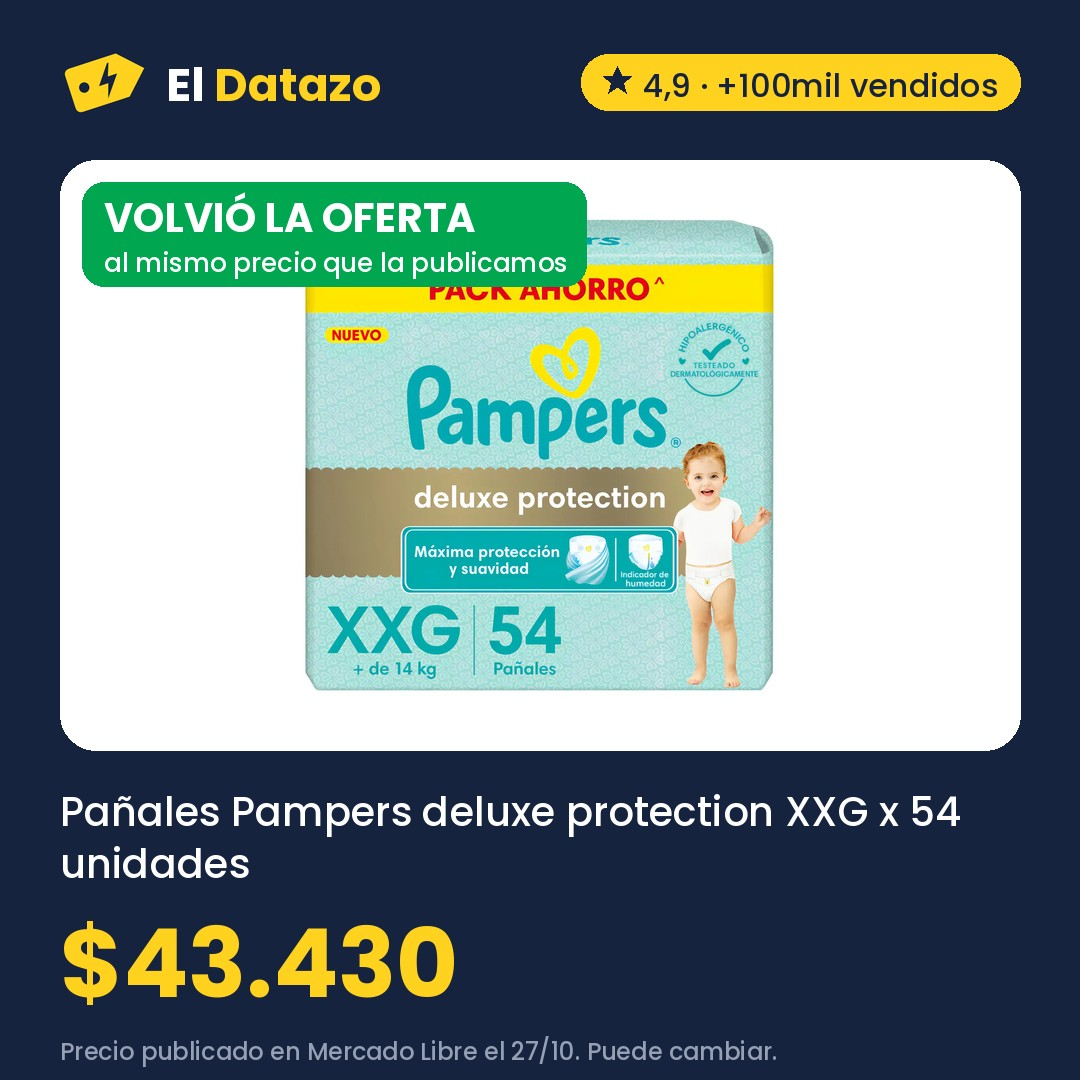
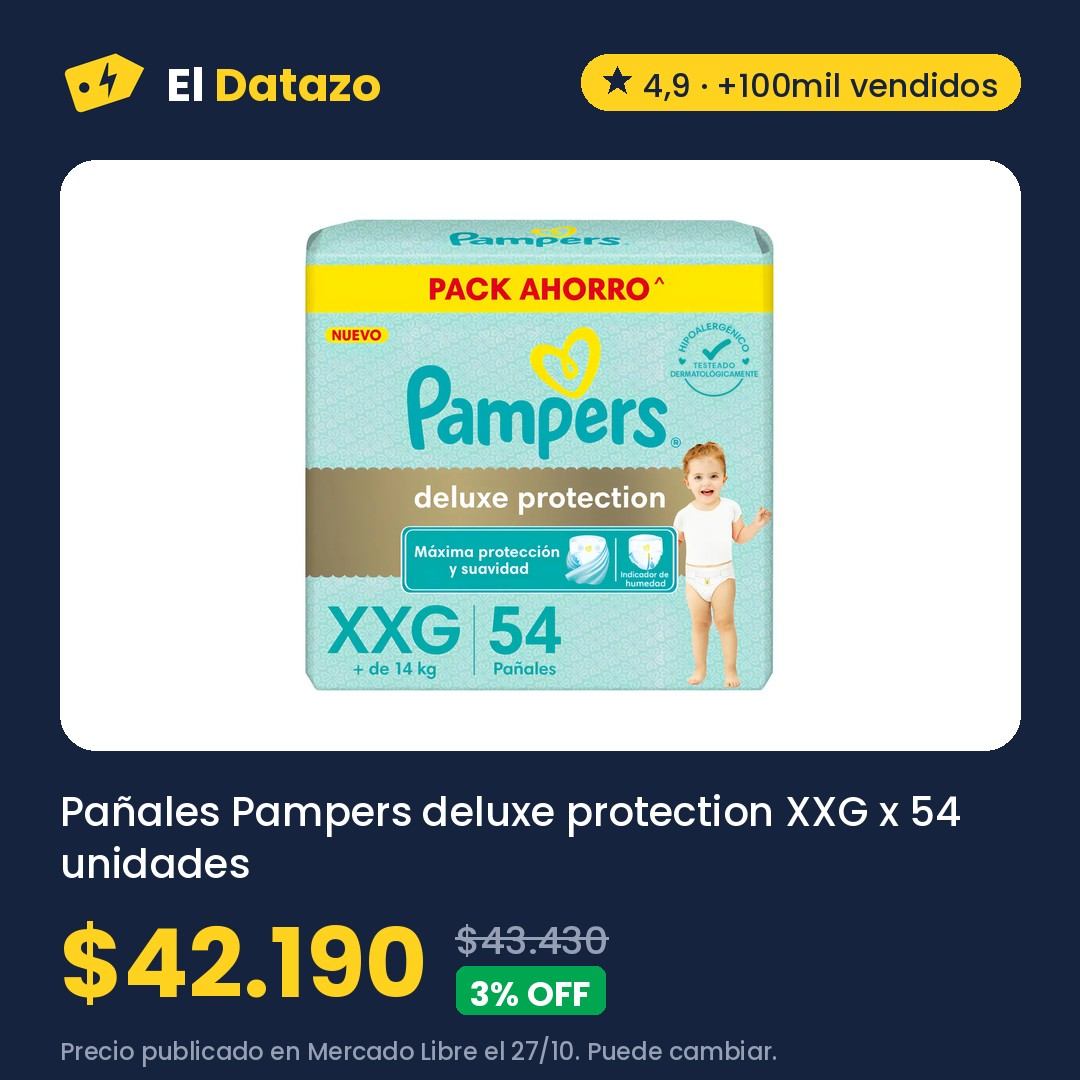
Ofertas 2026-10-27 14:11

Changed region(s): [[0.0611, 0.1528, 0.55, 0.275], [0.1833, 0.8556, 0.5806, 0.9472]]

diff --git a/index.html b/index.html
@@ -292,7 +292,7 @@ padding:3px 9px;border-radius:999px}
       <p class="hero-precio">$50.749</p>
       <p class="hero-antes"><s>$108.499</s> <span class="off">53% OFF</span></p>
       
-      <p class="nota">Precio del 24/10 en Mercado Libre, revisado hoy a las 11:06. Puede cambiar.</p>
+      <p class="nota">Precio del 24/10 en Mercado Libre, revisado hoy a las 11:11. Puede cambiar.</p>
       <a class="boton oscuro" href="https://meli.la/1HyqnAD" rel="sponsored noopener" target="_blank"
          data-oferta="MLA22130330">Ver oferta en Mercado Libre</a>
       <a class="compartir" href="https://wa.me/?text=Mir%C3%A1%20este%20datazo%3A%20Buclera%20de%20Pelo%20Gadnic%20B3000%20Rizador%203%20Tubos%2025%20mm%20150W%20180%20210%20C%20a%20%2450.749%20https%3A//eldatazo.com.ar/%23MLA22130330" target="_blank" rel="noopener" data-estilo="texto"><svg viewBox="0 0 24 24" width="16" height="16" aria-hidden="true"><path d="M4 20l1.3-4A8 8 0 1 1 8 18.7L4 20z" fill="none" stroke="currentColor" stroke-width="2" stroke-linejoin="round"/></svg> Compartir por WhatsApp</a>
@@ -307,7 +307,7 @@ padding:3px 9px;border-radius:999px}
         <li><a href="#MLA25363194"><img src="img/MLA25363194.jpg" alt="" loading="lazy">
           <span><b>Old Prince Premium gato adulto 7.5 kg</b><span class="ahora">$40.100</span> <span class="bajo">⬇ Volvió</span></span></a></li>
         <li><a href="#MLA28052339"><img src="img/MLA28052339.jpg" alt="" loading="lazy">
-          <span><b>Pañales Pampers deluxe protection XXG x 54 unidades</b><span class="ahora">$43.430</span> <span class="bajo">⬇ Volvió</span></span></a></li>
+          <span><b>Pañales Pampers deluxe protection XXG x 54 unidades</b><span class="ahora">$42.190</span> <span class="bajo">⬇ Volvió</span></span></a></li>
         <li><a href="https://meli.la/2bhn3SU" rel="sponsored noopener" target="_blank" data-oferta="MLA29031346"><img src="https://http2.mlstatic.com/D_Q_NP_930271-MLA99501053204_112025-AB.webp" alt="" loading="lazy" referrerpolicy="no-referrer">
           <span><b>Kit X 2 Handy Baofeng Radio Walkie Talkie Bf888s 16ch Uhf Bandas de frecuencia 16 Color Negro</b><span class="ahora">$31.448</span><s>$45.000</s>
           <span class="bajo">⬇ Bajó</span></span></a></li>
@@ -361,7 +361,7 @@ padding:3px 9px;border-radius:999px}
           <h3>Old Prince Premium gato adulto 7.5 kg</h3>
           <p class="precios "><span class="precio">$40.100</span></p>
           <p class="bajo">Había terminado y volvió al mismo precio</p>
-          <p class="nota">Precio de hoy a las 11:06 en Mercado Libre. Puede cambiar.</p>
+          <p class="nota">Precio de hoy a las 11:11 en Mercado Libre. Puede cambiar.</p>
           <div class="acciones">
             <a class="boton" href="https://meli.la/2zmmmFA" rel="sponsored noopener" target="_blank"
                data-oferta="MLA25363194">Ver oferta</a>
@@ -370,20 +370,20 @@ padding:3px 9px;border-radius:999px}
           </div>
         </div>
       </article>
-      <article class="tarjeta destacada" id="MLA28052339" data-rubro="MLA1384" data-off="0" data-pub="2026-10-27" data-quedan="7" data-precio="43430" data-bajo="1" data-texto="pañales pampers deluxe protection xxg x 54 unidades">
+      <article class="tarjeta destacada" id="MLA28052339" data-rubro="MLA1384" data-off="3" data-pub="2026-10-27" data-quedan="7" data-precio="42189" data-bajo="1" data-texto="pañales pampers deluxe protection xxg x 54 unidades">
         <div class="tarjeta-foto">
           <img src="img/MLA28052339.jpg" alt="Pañales Pampers deluxe protection XXG x 54 unidades" loading="lazy" width="1080" height="1080">
         </div>
         <div class="cuerpo">
           <div class="fila"><span class="sello baja">⬇ Volvió</span><span class="sello">Quedan 7 días</span><span class="rubro">Bebés</span></div>
           <h3>Pañales Pampers deluxe protection XXG x 54 unidades</h3>
-          <p class="precios "><span class="precio">$43.430</span></p>
+          <p class="precios "><span class="precio">$42.190</span><s class="antes">$43.430</s><span class="off">3% OFF</span></p>
           <p class="bajo">Había terminado y volvió al mismo precio</p>
-          <p class="nota">Precio de hoy a las 11:06 en Mercado Libre. Puede cambiar.</p>
+          <p class="nota">Precio de hoy a las 11:11 en Mercado Libre. Puede cambiar.</p>
           <div class="acciones">
             <a class="boton" href="https://meli.la/2kAwAe6" rel="sponsored noopener" target="_blank"
                data-oferta="MLA28052339">Ver oferta</a>
-            <a class="compartir" href="https://wa.me/?text=Mir%C3%A1%20este%20datazo%3A%20Pa%C3%B1ales%20Pampers%20deluxe%20protection%20XXG%20x%2054%20unidades%20a%20%2443.430%20https%3A//eldatazo.com.ar/%23MLA28052339" target="_blank" rel="noopener"
+            <a class="compartir" href="https://wa.me/?text=Mir%C3%A1%20este%20datazo%3A%20Pa%C3%B1ales%20Pampers%20deluxe%20protection%20XXG%20x%2054%20unidades%20a%20%2442.190%20https%3A//eldatazo.com.ar/%23MLA28052339" target="_blank" rel="noopener"
                aria-label="Compartir por WhatsApp" title="Compartir por WhatsApp"><svg viewBox="0 0 24 24" width="16" height="16" aria-hidden="true"><path d="M4 20l1.3-4A8 8 0 1 1 8 18.7L4 20z" fill="none" stroke="currentColor" stroke-width="2" stroke-linejoin="round"/></svg></a>
           </div>
         </div>
@@ -397,7 +397,7 @@ padding:3px 9px;border-radius:999px}
           <h3>Calculadora Cientifica Casio Fx 570la Cw Classwiz Negra</h3>
           <p class="precios "><span class="precio">$59.174</span></p>
           
-          <p class="nota">Precio del 26/10 en Mercado Libre, revisado hoy a las 11:06. Puede cambiar.</p>
+          <p class="nota">Precio del 26/10 en Mercado Libre, revisado hoy a las 11:11. Puede cambiar.</p>
           <div class="acciones">
             <a class="boton" href="https://meli.la/2iggYJ9" rel="sponsored noopener" target="_blank"
                data-oferta="MLA22724798">Ver oferta</a>
@@ -415,7 +415,7 @@ padding:3px 9px;border-radius:999px}
           <h3>Colchón Inflable Doble Klimber + Inflador + 2 Almohadas</h3>
           <p class="precios "><span class="precio">$45.777</span><s class="antes">$69.499</s><span class="off">34% OFF</span></p>
           
-          <p class="nota">Precio del 26/10 en Mercado Libre, revisado hoy a las 11:06. Puede cambiar.</p>
+          <p class="nota">Precio del 26/10 en Mercado Libre, revisado hoy a las 11:11. Puede cambiar.</p>
           <div class="acciones">
             <a class="boton" href="https://meli.la/19eMhmv" rel="sponsored noopener" target="_blank"
                data-oferta="MLA22764635">Ver oferta</a>
@@ -433,7 +433,7 @@ padding:3px 9px;border-radius:999px}
           <h3>Rotuladora Portátil Niimbot Etiquetadora Manual Impresora Color Blanco D110</h3>
           <p class="precios "><span class="precio">$41.040</span><s class="antes">$58.900</s><span class="off">30% OFF</span></p>
           
-          <p class="nota">Precio del 26/10 en Mercado Libre, revisado hoy a las 11:06. Puede cambiar.</p>
+          <p class="nota">Precio del 26/10 en Mercado Libre, revisado hoy a las 11:11. Puede cambiar.</p>
           <div class="acciones">
             <a class="boton" href="https://meli.la/1czSFp6" rel="sponsored noopener" target="_blank"
                data-oferta="MLA45260672">Ver oferta</a>
@@ -451,7 +451,7 @@ padding:3px 9px;border-radius:999px}
           <h3>Probioticos Perros Aditivo Natural Digestivo Instestinal Alergia Ruffitos</h3>
           <p class="precios "><span class="precio">$52.990</span><s class="antes">$69.000</s><span class="off">23% OFF</span></p>
           
-          <p class="nota">Precio del 26/10 en Mercado Libre, revisado hoy a las 11:06. Puede cambiar.</p>
+          <p class="nota">Precio del 26/10 en Mercado Libre, revisado hoy a las 11:11. Puede cambiar.</p>
           <div class="acciones">
             <a class="boton" href="https://meli.la/2MYNaoX" rel="sponsored noopener" target="_blank"
                data-oferta="MLA59797283">Ver oferta</a>
@@ -469,7 +469,7 @@ padding:3px 9px;border-radius:999px}
           <h3>Eucerin Sun Oil Control Protector solar facial Toque Seco FPS 50 x 50 ml</h3>
           <p class="precios "><span class="precio">$45.181</span><s class="antes">$75.301</s><span class="off">40% OFF</span></p>
           
-          <p class="nota">Precio del 22/10 en Mercado Libre, revisado hoy a las 11:06. Puede cambiar.</p>
+          <p class="nota">Precio del 22/10 en Mercado Libre, revisado hoy a las 11:11. Puede cambiar.</p>
           <div class="acciones">
             <a class="boton" href="https://meli.la/2Zpeewk" rel="sponsored noopener" target="_blank"
                data-oferta="MLA16048275">Ver oferta</a>
@@ -487,7 +487,7 @@ padding:3px 9px;border-radius:999px}
           <h3>Bomba Periferica Elevadora Agua Vasser 1/2 Hp 20mts caudal 30 l/m</h3>
           <p class="precios "><span class="precio">$42.419</span><s class="antes">$51.449</s><span class="off">18% OFF</span></p>
           
-          <p class="nota">Precio de hoy a las 11:06 en Mercado Libre. Puede cambiar.</p>
+          <p class="nota">Precio de hoy a las 11:11 en Mercado Libre. Puede cambiar.</p>
           <div class="acciones">
             <a class="boton" href="https://meli.la/2nztThe" rel="sponsored noopener" target="_blank"
                data-oferta="MLA19576694">Ver oferta</a>
@@ -505,7 +505,7 @@ padding:3px 9px;border-radius:999px}
           <h3>Bomba Pluvius Presurizadora 100 W Automática 2 Baños</h3>
           <p class="precios "><span class="precio">$62.006</span><s class="antes">$81.899</s><span class="off">24% OFF</span></p>
           <p class="bajo">Antes $66.659 el 24/10 · 7% menos</p>
-          <p class="nota">Precio de hoy a las 11:06 en Mercado Libre. Puede cambiar.</p>
+          <p class="nota">Precio de hoy a las 11:11 en Mercado Libre. Puede cambiar.</p>
           <div class="acciones">
             <a class="boton" href="https://meli.la/2a5DkY2" rel="sponsored noopener" target="_blank"
                data-oferta="MLA19974075">Ver oferta</a>
@@ -523,7 +523,7 @@ padding:3px 9px;border-radius:999px}
           <h3>Equipo Pistola Pintar Eléctrica Latex 450w TOTAL Acabado Profesional sin Esfuerzo</h3>
           <p class="precios "><span class="precio">$56.340</span><s class="antes">$105.990</s><span class="off">47% OFF</span></p>
           
-          <p class="nota">Precio del 24/10 en Mercado Libre, revisado hoy a las 11:06. Puede cambiar.</p>
+          <p class="nota">Precio del 24/10 en Mercado Libre, revisado hoy a las 11:11. Puede cambiar.</p>
           <div class="acciones">
             <a class="boton" href="https://meli.la/2TeggF7" rel="sponsored noopener" target="_blank"
                data-oferta="MLA22620660">Ver oferta</a>
@@ -541,7 +541,7 @@ padding:3px 9px;border-radius:999px}
           <h3>Silfab AL91 Almohadilla Eléctrica Espalda Large 41 X 28 Cm</h3>
           <p class="precios "><span class="precio">$50.465</span></p>
           
-          <p class="nota">Precio del 24/10 en Mercado Libre, revisado hoy a las 11:06. Puede cambiar.</p>
+          <p class="nota">Precio del 24/10 en Mercado Libre, revisado hoy a las 11:11. Puede cambiar.</p>
           <div class="acciones">
             <a class="boton" href="https://meli.la/2cQdCWW" rel="sponsored noopener" target="_blank"
                data-oferta="MLA23456165">Ver oferta</a>
@@ -559,7 +559,7 @@ padding:3px 9px;border-radius:999px}
           <h3>Pintura Latex Ingenia X 20 L Interior Exterior Cubritiva - Blanco</h3>
           <p class="precios "><span class="precio">$32.999</span><s class="antes">$69.999</s><span class="off">53% OFF</span></p>
           
-          <p class="nota">Precio del 24/10 en Mercado Libre, revisado hoy a las 11:06. Puede cambiar.</p>
+          <p class="nota">Precio del 24/10 en Mercado Libre, revisado hoy a las 11:11. Puede cambiar.</p>
           <div class="acciones">
             <a class="boton" href="https://meli.la/2Gbd1ds" rel="sponsored noopener" target="_blank"
                data-oferta="MLA23521180">Ver oferta</a>
@@ -577,7 +577,7 @@ padding:3px 9px;border-radius:999px}
           <h3>Masajeador Cervical Eléctrico Portatil Inalambrico Batería Recargable Usb Femmto Relajación Cuello Espalda Lumbar</h3>
           <p class="precios "><span class="precio">$70.699</span><s class="antes">$100.000</s><span class="off">29% OFF</span></p>
           
-          <p class="nota">Precio del 22/10 en Mercado Libre, revisado hoy a las 11:06. Puede cambiar.</p>
+          <p class="nota">Precio del 22/10 en Mercado Libre, revisado hoy a las 11:11. Puede cambiar.</p>
           <div class="acciones">
             <a class="boton" href="https://meli.la/2DfwhAa" rel="sponsored noopener" target="_blank"
                data-oferta="MLA24127896">Ver oferta</a>
@@ -595,7 +595,7 @@ padding:3px 9px;border-radius:999px}
           <h3>Taladro Atornillador Inalámbrico Branx Bateria 20v Litio Color Accesorios Maletin HyperBolt20</h3>
           <p class="precios "><span class="precio">$58.999</span><s class="antes">$120.000</s><span class="off">51% OFF</span></p>
           
-          <p class="nota">Precio del 24/10 en Mercado Libre, revisado hoy a las 11:06. Puede cambiar.</p>
+          <p class="nota">Precio del 24/10 en Mercado Libre, revisado hoy a las 11:11. Puede cambiar.</p>
           <div class="acciones">
             <a class="boton" href="https://meli.la/2xk9W87" rel="sponsored noopener" target="_blank"
                data-oferta="MLA24983473">Ver oferta</a>
@@ -613,7 +613,7 @@ padding:3px 9px;border-radius:999px}
           <h3>Equipo de Alta Frecuencia Gadnic LF60 Antienvejecimiento Antiacné Reafirmante Facial 4 Electrodos</h3>
           <p class="precios "><span class="precio">$49.999</span><s class="antes">$98.399</s><span class="off">49% OFF</span></p>
           
-          <p class="nota">Precio del 24/10 en Mercado Libre, revisado hoy a las 11:06. Puede cambiar.</p>
+          <p class="nota">Precio del 24/10 en Mercado Libre, revisado hoy a las 11:11. Puede cambiar.</p>
           <div class="acciones">
             <a class="boton" href="https://meli.la/1guS1ep" rel="sponsored noopener" target="_blank"
                data-oferta="MLA26522167">Ver oferta</a>
@@ -631,7 +631,7 @@ padding:3px 9px;border-radius:999px}
           <h3>Bomba Presurizadora Elevadora 2 Baños Presion Kommberg 120w KB-EP120</h3>
           <p class="precios "><span class="precio">$60.021</span><s class="antes">$79.890</s><span class="off">25% OFF</span></p>
           
-          <p class="nota">Precio del 24/10 en Mercado Libre, revisado hoy a las 11:06. Puede cambiar.</p>
+          <p class="nota">Precio del 24/10 en Mercado Libre, revisado hoy a las 11:11. Puede cambiar.</p>
           <div class="acciones">
             <a class="boton" href="https://meli.la/2eMw9XD" rel="sponsored noopener" target="_blank"
                data-oferta="MLA28254149">Ver oferta</a>
@@ -649,7 +649,7 @@ padding:3px 9px;border-radius:999px}
           <h3>Máquina De Cortar Pelo Para Perros Gadnic CP170 Silenciosa 2000 mAh 4 Peines Acero Inoxidable Autonomía 3,5Hr Carga Rápida</h3>
           <p class="precios "><span class="precio">$68.999</span><s class="antes">$118.749</s><span class="off">42% OFF</span></p>
           
-          <p class="nota">Precio del 24/10 en Mercado Libre, revisado hoy a las 11:06. Puede cambiar.</p>
+          <p class="nota">Precio del 24/10 en Mercado Libre, revisado hoy a las 11:11. Puede cambiar.</p>
           <div class="acciones">
             <a class="boton" href="https://meli.la/1eArodH" rel="sponsored noopener" target="_blank"
                data-oferta="MLA28329206">Ver oferta</a>
@@ -667,7 +667,7 @@ padding:3px 9px;border-radius:999px}
           <h3>Compresor De Aire Portátil Gadnic Inflador Neumáticos 50W Presión 150 PSI Caudal 17 L/min Pantalla Dual LCD Corte Automático Linterna LED Accesorios Para Auto Moto Bicicleta Pelotas</h3>
           <p class="precios "><span class="precio">$57.449</span><s class="antes">$105.599</s><span class="off">46% OFF</span></p>
           
-          <p class="nota">Precio del 24/10 en Mercado Libre, revisado hoy a las 11:06. Puede cambiar.</p>
+          <p class="nota">Precio del 24/10 en Mercado Libre, revisado hoy a las 11:11. Puede cambiar.</p>
           <div class="acciones">
             <a class="boton" href="https://meli.la/2ck1cFk" rel="sponsored noopener" target="_blank"
                data-oferta="MLA43472281">Ver oferta</a>
@@ -685,7 +685,7 @@ padding:3px 9px;border-radius:999px}
           <h3>Plastificadora Laminadora A4 Profesional Frio Calor 230 Mm</h3>
           <p class="precios "><span class="precio">$51.465</span><s class="antes">$79.999</s><span class="off">36% OFF</span></p>
           
-          <p class="nota">Precio del 24/10 en Mercado Libre, revisado hoy a las 11:06. Puede cambiar.</p>
+          <p class="nota">Precio del 24/10 en Mercado Libre, revisado hoy a las 11:11. Puede cambiar.</p>
           <div class="acciones">
             <a class="boton" href="https://meli.la/14bVQFh" rel="sponsored noopener" target="_blank"
                data-oferta="MLA43829530">Ver oferta</a>
@@ -703,7 +703,7 @@ padding:3px 9px;border-radius:999px}
           <h3>Cable Tipo Taller 2x2.5 Mm 50mts Cubierta Negro</h3>
           <p class="precios "><span class="precio">$48.839</span></p>
           
-          <p class="nota">Precio del 24/10 en Mercado Libre, revisado hoy a las 11:06. Puede cambiar.</p>
+          <p class="nota">Precio del 24/10 en Mercado Libre, revisado hoy a las 11:11. Puede cambiar.</p>
           <div class="acciones">
             <a class="boton" href="https://meli.la/1aC3rjr" rel="sponsored noopener" target="_blank"
                data-oferta="MLA50107405">Ver oferta</a>
@@ -721,7 +721,7 @@ padding:3px 9px;border-radius:999px}
           <h3>Bloques Magnéticos Para Armar 100 Piezas Construcción Tiles 100</h3>
           <p class="precios "><span class="precio">$63.832</span><s class="antes">$83.990</s><span class="off">24% OFF</span></p>
           
-          <p class="nota">Precio del 24/10 en Mercado Libre, revisado hoy a las 11:06. Puede cambiar.</p>
+          <p class="nota">Precio del 24/10 en Mercado Libre, revisado hoy a las 11:11. Puede cambiar.</p>
           <div class="acciones">
             <a class="boton" href="https://meli.la/2Hc8YtJ" rel="sponsored noopener" target="_blank"
                data-oferta="MLA63335049">Ver oferta</a>
@@ -739,7 +739,7 @@ padding:3px 9px;border-radius:999px}
           <h3>Juego Cubiertas Moto 110 2.50-17+2.75-14 + Camaras</h3>
           <p class="precios "><span class="precio">$60.776</span><s class="antes">$82.983</s><span class="off">27% OFF</span></p>
           
-          <p class="nota">Precio del 24/10 en Mercado Libre, revisado hoy a las 11:06. Puede cambiar.</p>
+          <p class="nota">Precio del 24/10 en Mercado Libre, revisado hoy a las 11:11. Puede cambiar.</p>
           <div class="acciones">
             <a class="boton" href="https://meli.la/1rzdJj3" rel="sponsored noopener" target="_blank"
                data-oferta="MLA63532450">Ver oferta</a>
@@ -757,7 +757,7 @@ padding:3px 9px;border-radius:999px}
           <h3>Matafuegos Abc 5 Kg Para Comercios</h3>
           <p class="precios "><span class="precio">$78.750</span><s class="antes">$105.000</s><span class="off">25% OFF</span></p>
           
-          <p class="nota">Precio del 24/10 en Mercado Libre, revisado hoy a las 11:06. Puede cambiar.</p>
+          <p class="nota">Precio del 24/10 en Mercado Libre, revisado hoy a las 11:11. Puede cambiar.</p>
           <div class="acciones">
             <a class="boton" href="https://meli.la/2gsNYCX" rel="sponsored noopener" target="_blank"
                data-oferta="MLA68388327">Ver oferta</a>
@@ -775,7 +775,7 @@ padding:3px 9px;border-radius:999px}
           <h3>Figuritas Panini X 25 Sobres World Cup 2026 Mundial 2026</h3>
           <p class="precios "><span class="precio">$50.000</span></p>
           
-          <p class="nota">Precio del 24/10 en Mercado Libre, revisado hoy a las 11:06. Puede cambiar.</p>
+          <p class="nota">Precio del 24/10 en Mercado Libre, revisado hoy a las 11:11. Puede cambiar.</p>
           <div class="acciones">
             <a class="boton" href="https://meli.la/1qNpAcw" rel="sponsored noopener" target="_blank"
                data-oferta="MLA69121337">Ver oferta</a>
@@ -1361,7 +1361,7 @@ padding:3px 9px;border-radius:999px}
       <nav class="redes" aria-label="Redes de El Datazo"><a class="red" href="https://www.instagram.com/eldatazo.arg/" target="_blank" rel="noopener"><svg viewBox="0 0 24 24" width="18" height="18" aria-hidden="true"><rect x="3" y="3" width="18" height="18" rx="5" fill="none" stroke="currentColor" stroke-width="2"/><circle cx="12" cy="12" r="4" fill="none" stroke="currentColor" stroke-width="2"/><circle cx="17.5" cy="6.5" r="1.3" fill="currentColor"/></svg> Instagram</a><a class="red" href="https://www.facebook.com/profile.php?id=61595441168911" target="_blank" rel="noopener"><svg viewBox="0 0 24 24" width="18" height="18" aria-hidden="true"><path d="M14 8h3V4h-3a4 4 0 0 0-4 4v2H7v4h3v8h4v-8h3l1-4h-4V8z" fill="currentColor"/></svg> Facebook</a><a class="red" href="https://t.me/eldatazo_ofertas" target="_blank" rel="noopener"><svg viewBox="0 0 24 24" width="18" height="18" aria-hidden="true"><path d="M21 4 3 11l5 2 2 6 3-4 5 4 3-15zM9 13l9-6-7 8" fill="none" stroke="currentColor" stroke-width="1.8" stroke-linejoin="round"/></svg> Telegram</a></nav>
       <p>Los links son de afiliado de Mercado Libre: si comprás, El Datazo puede recibir una comisión, sin que cambie
       tu precio. Los precios son los publicados en Mercado Libre el día indicado y pueden cambiar.</p>
-      <p>Actualizado el 27/10/2026 11:06 (hora argentina) · <a href="privacidad/">Privacidad</a></p>
+      <p>Actualizado el 27/10/2026 11:11 (hora argentina) · <a href="privacidad/">Privacidad</a></p>
     </div>
   </footer>
   
